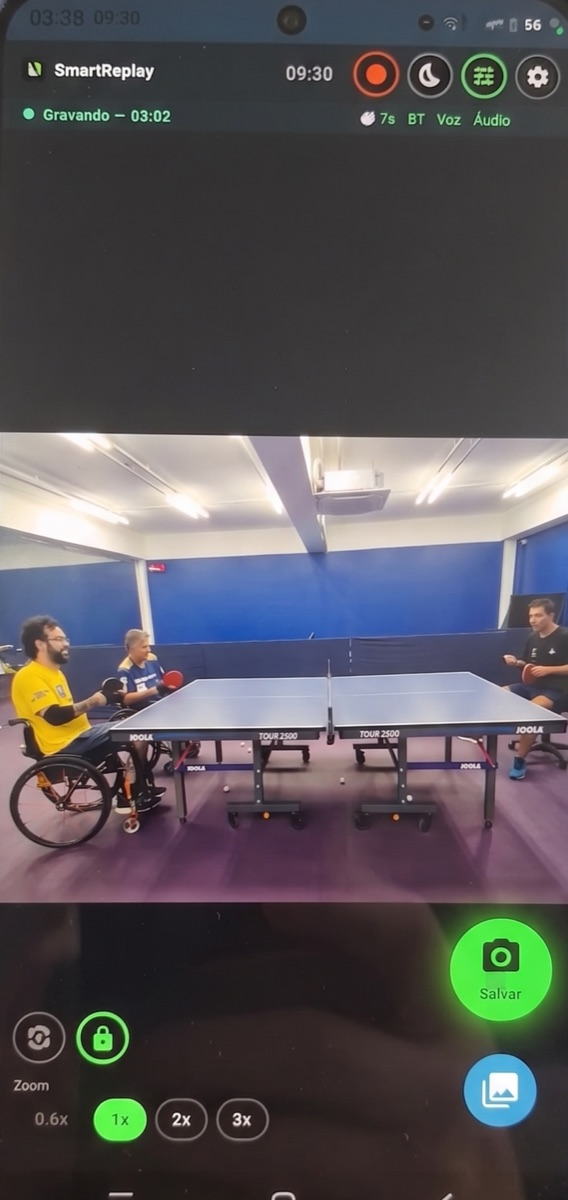
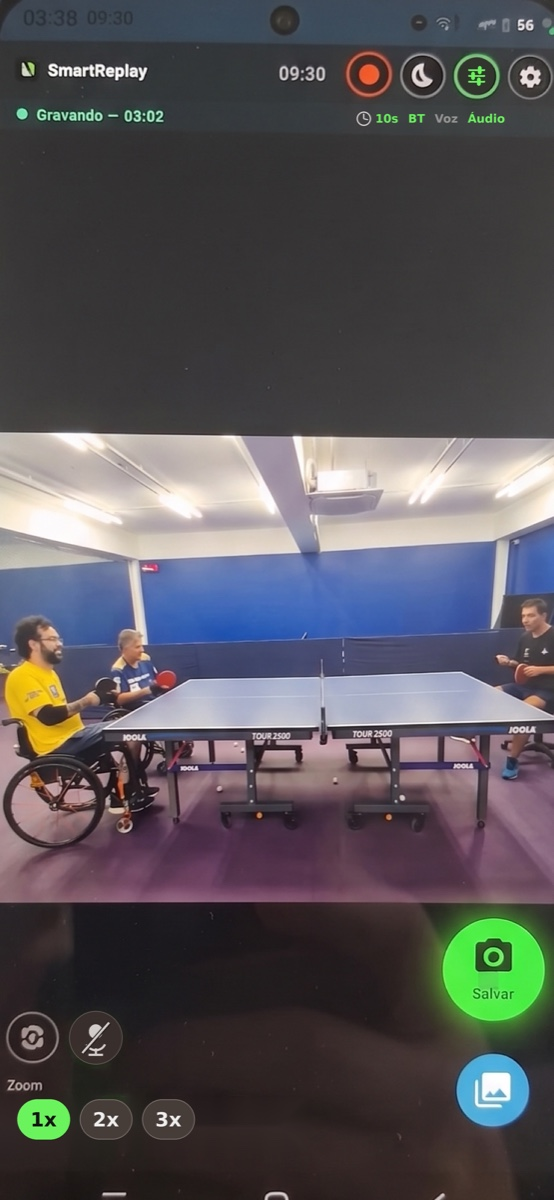
site: a capa vira a captura corrigida, a mesma que abre a ficha da Apple
O herói mostrava um recorte da foto do aparelho no tripé — servia, mas era foto
de tela, com o estado antigo da interface (janela de 10s escrita 7s, chip de
0.6x que saiu, cadeado no lugar do microfone).

Entra a captura de tela de verdade da mesma jogada, em resolução dobrada e já
com a interface da 1.6. É a imagem que abre a ficha da App Store: quem chega
pelo site e quem chega pela loja passam a ver a mesma cena.

Marca de versão só nessa imagem (v=17), para não forçar quem já visitou a
rebaixar as outras dezenove.

diff --git a/index.html b/index.html
@@ -418,7 +418,7 @@ a.video-card{display:block;text-decoration:none;color:inherit;}
       <div class="phone-stack">
         <div class="phone-main-wrap">
           <div class="phone-shell-main">
-            <img src="img/06-gravando.jpg?v=16" alt="SmartReplay Sport gravando uma partida de duplas de tênis de mesa, com o botão Salvar em destaque" fetchpriority="high" decoding="async">
+            <img src="img/06-gravando.jpg?v=17" alt="SmartReplay Sport gravando uma partida de duplas de tênis de mesa, com o botão Salvar em destaque" fetchpriority="high" decoding="async">
             <div class="rec-badge"><span class="rec-dot"></span> Gravando</div>
           </div>
           <div class="phone-shell-back">
@@ -521,7 +521,7 @@ a.video-card{display:block;text-decoration:none;color:inherit;}
         <div class="screen-caption" data-i18n="k055">Splash</div>
       </div>
       <div class="screen-item">
-        <div class="phone-frame"><img src="img/06-gravando.jpg?v=16" alt="Gravando uma partida de duplas no Android" loading="lazy"></div>
+        <div class="phone-frame"><img src="img/06-gravando.jpg?v=17" alt="Gravando uma partida de duplas no Android" loading="lazy"></div>
         <div class="screen-caption" data-i18n="k057">Gravando</div>
       </div>
       <div class="screen-item">
